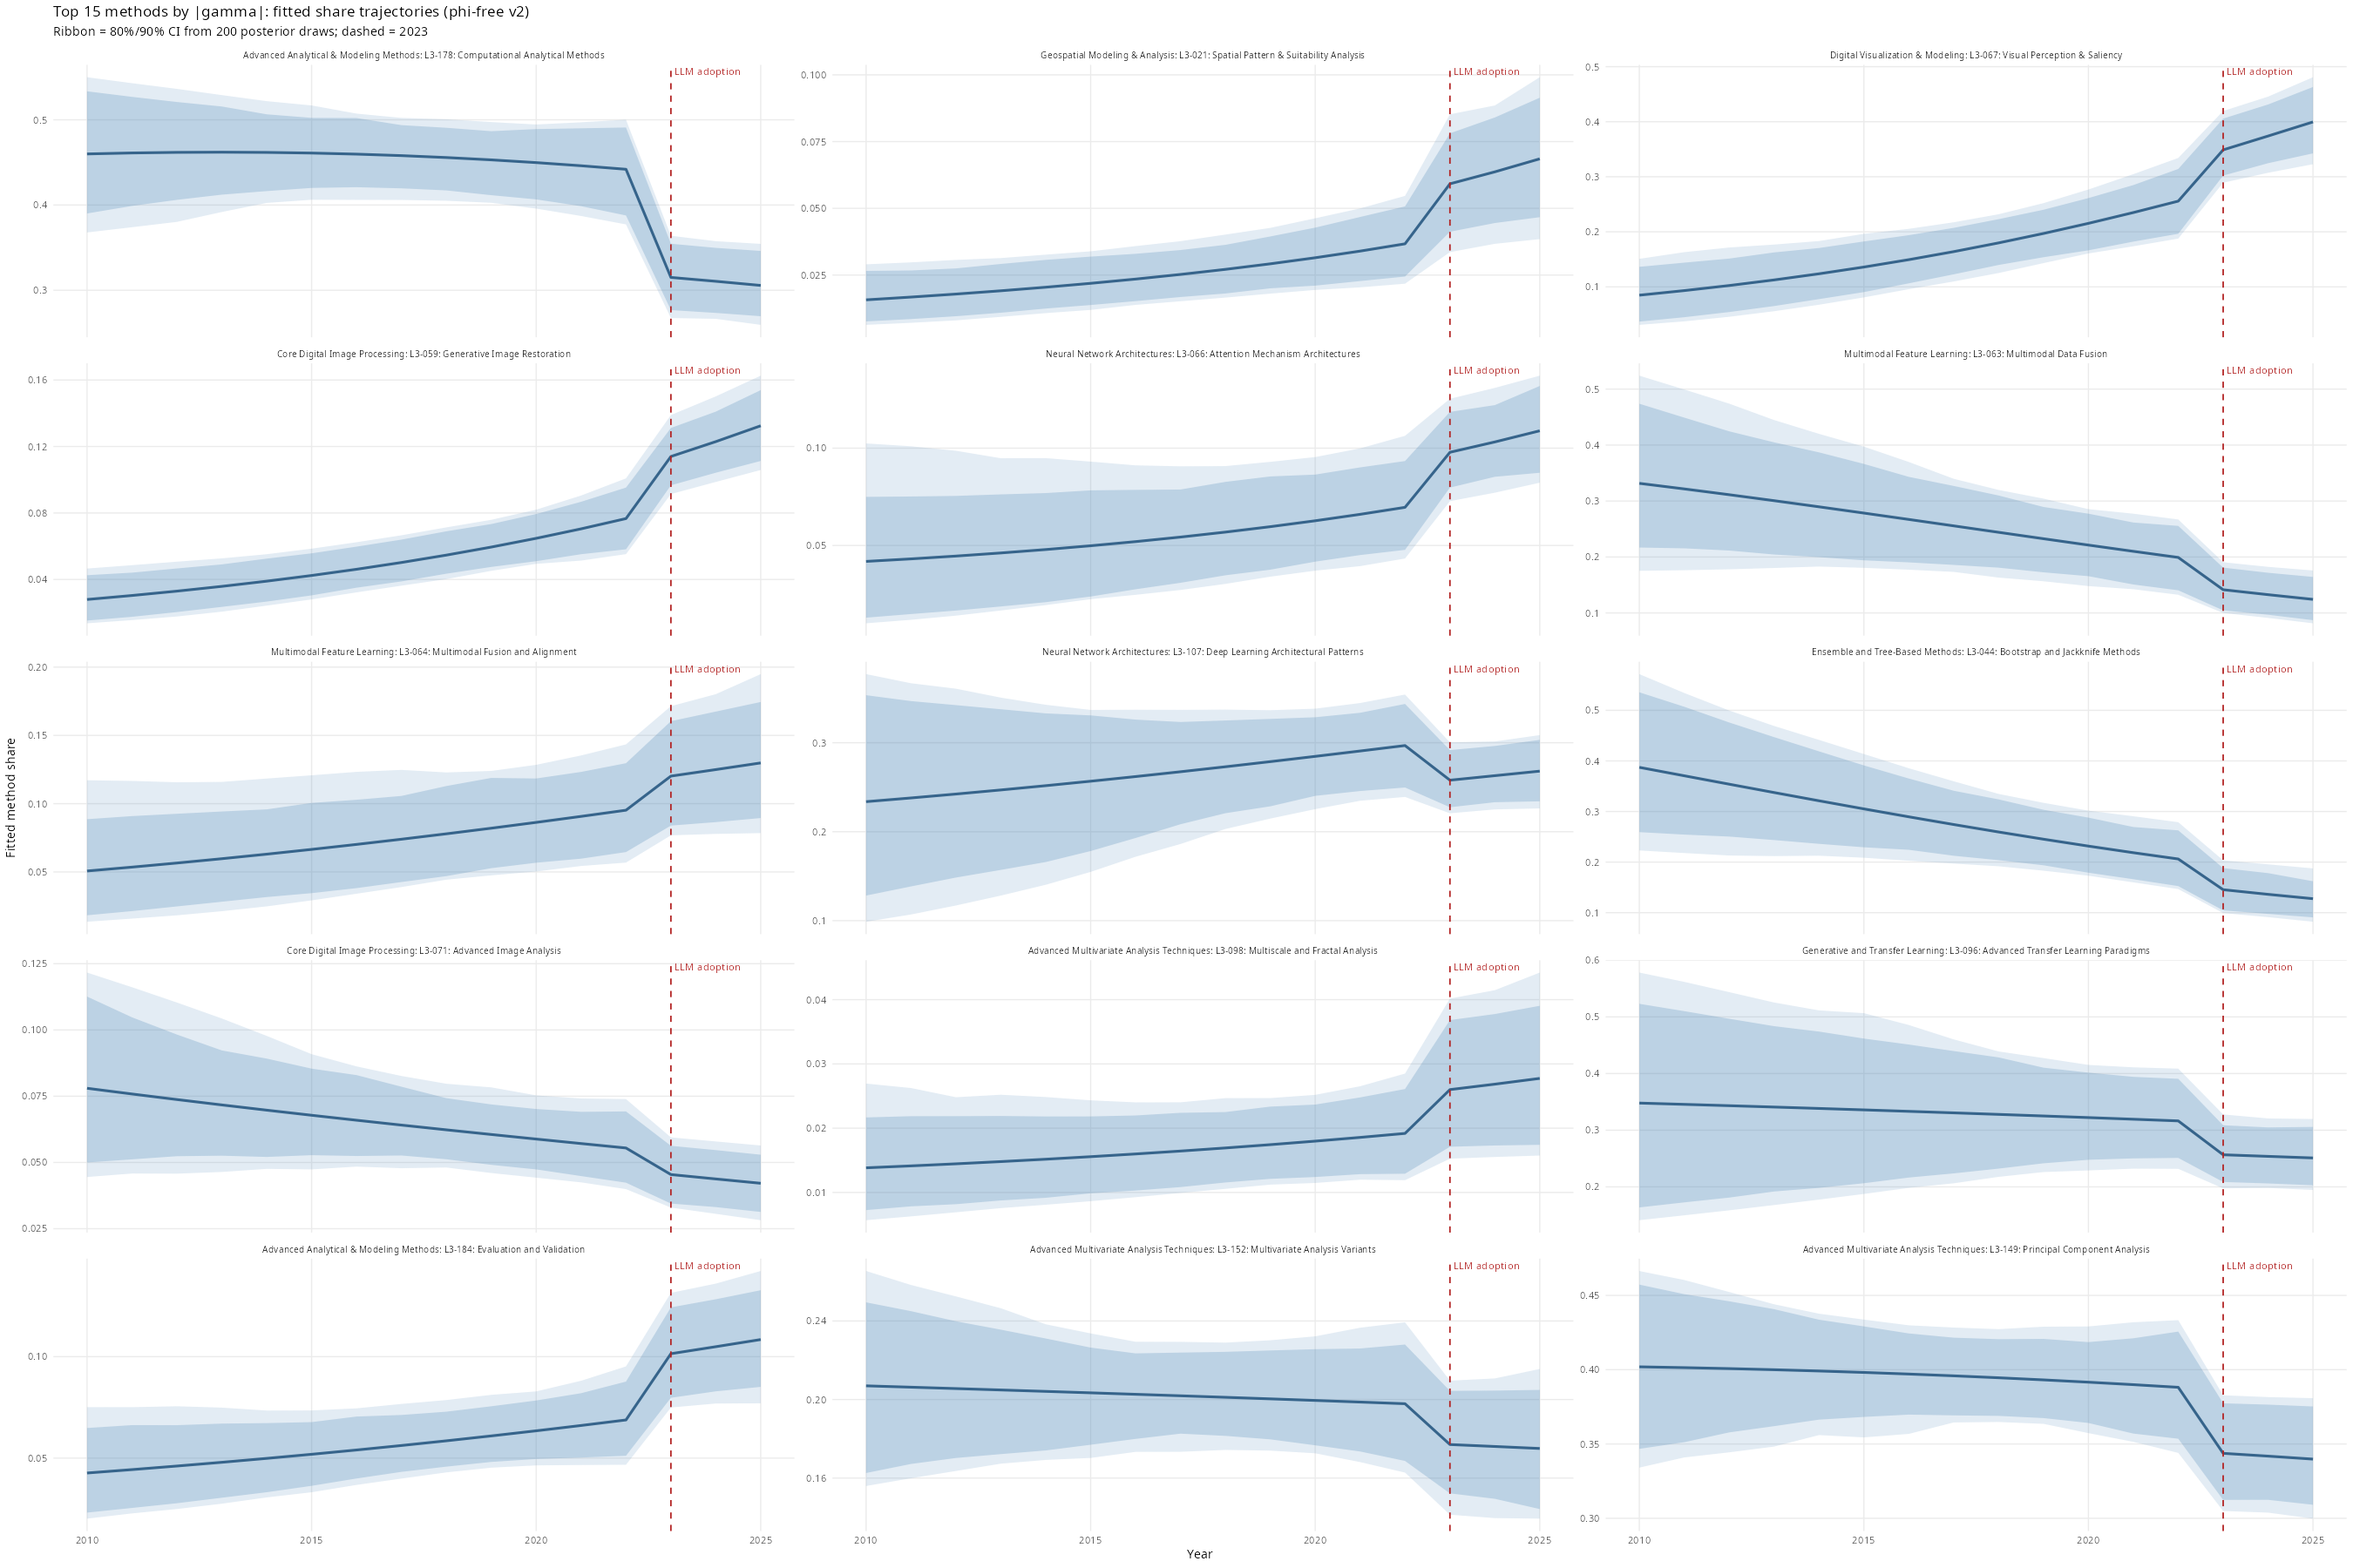
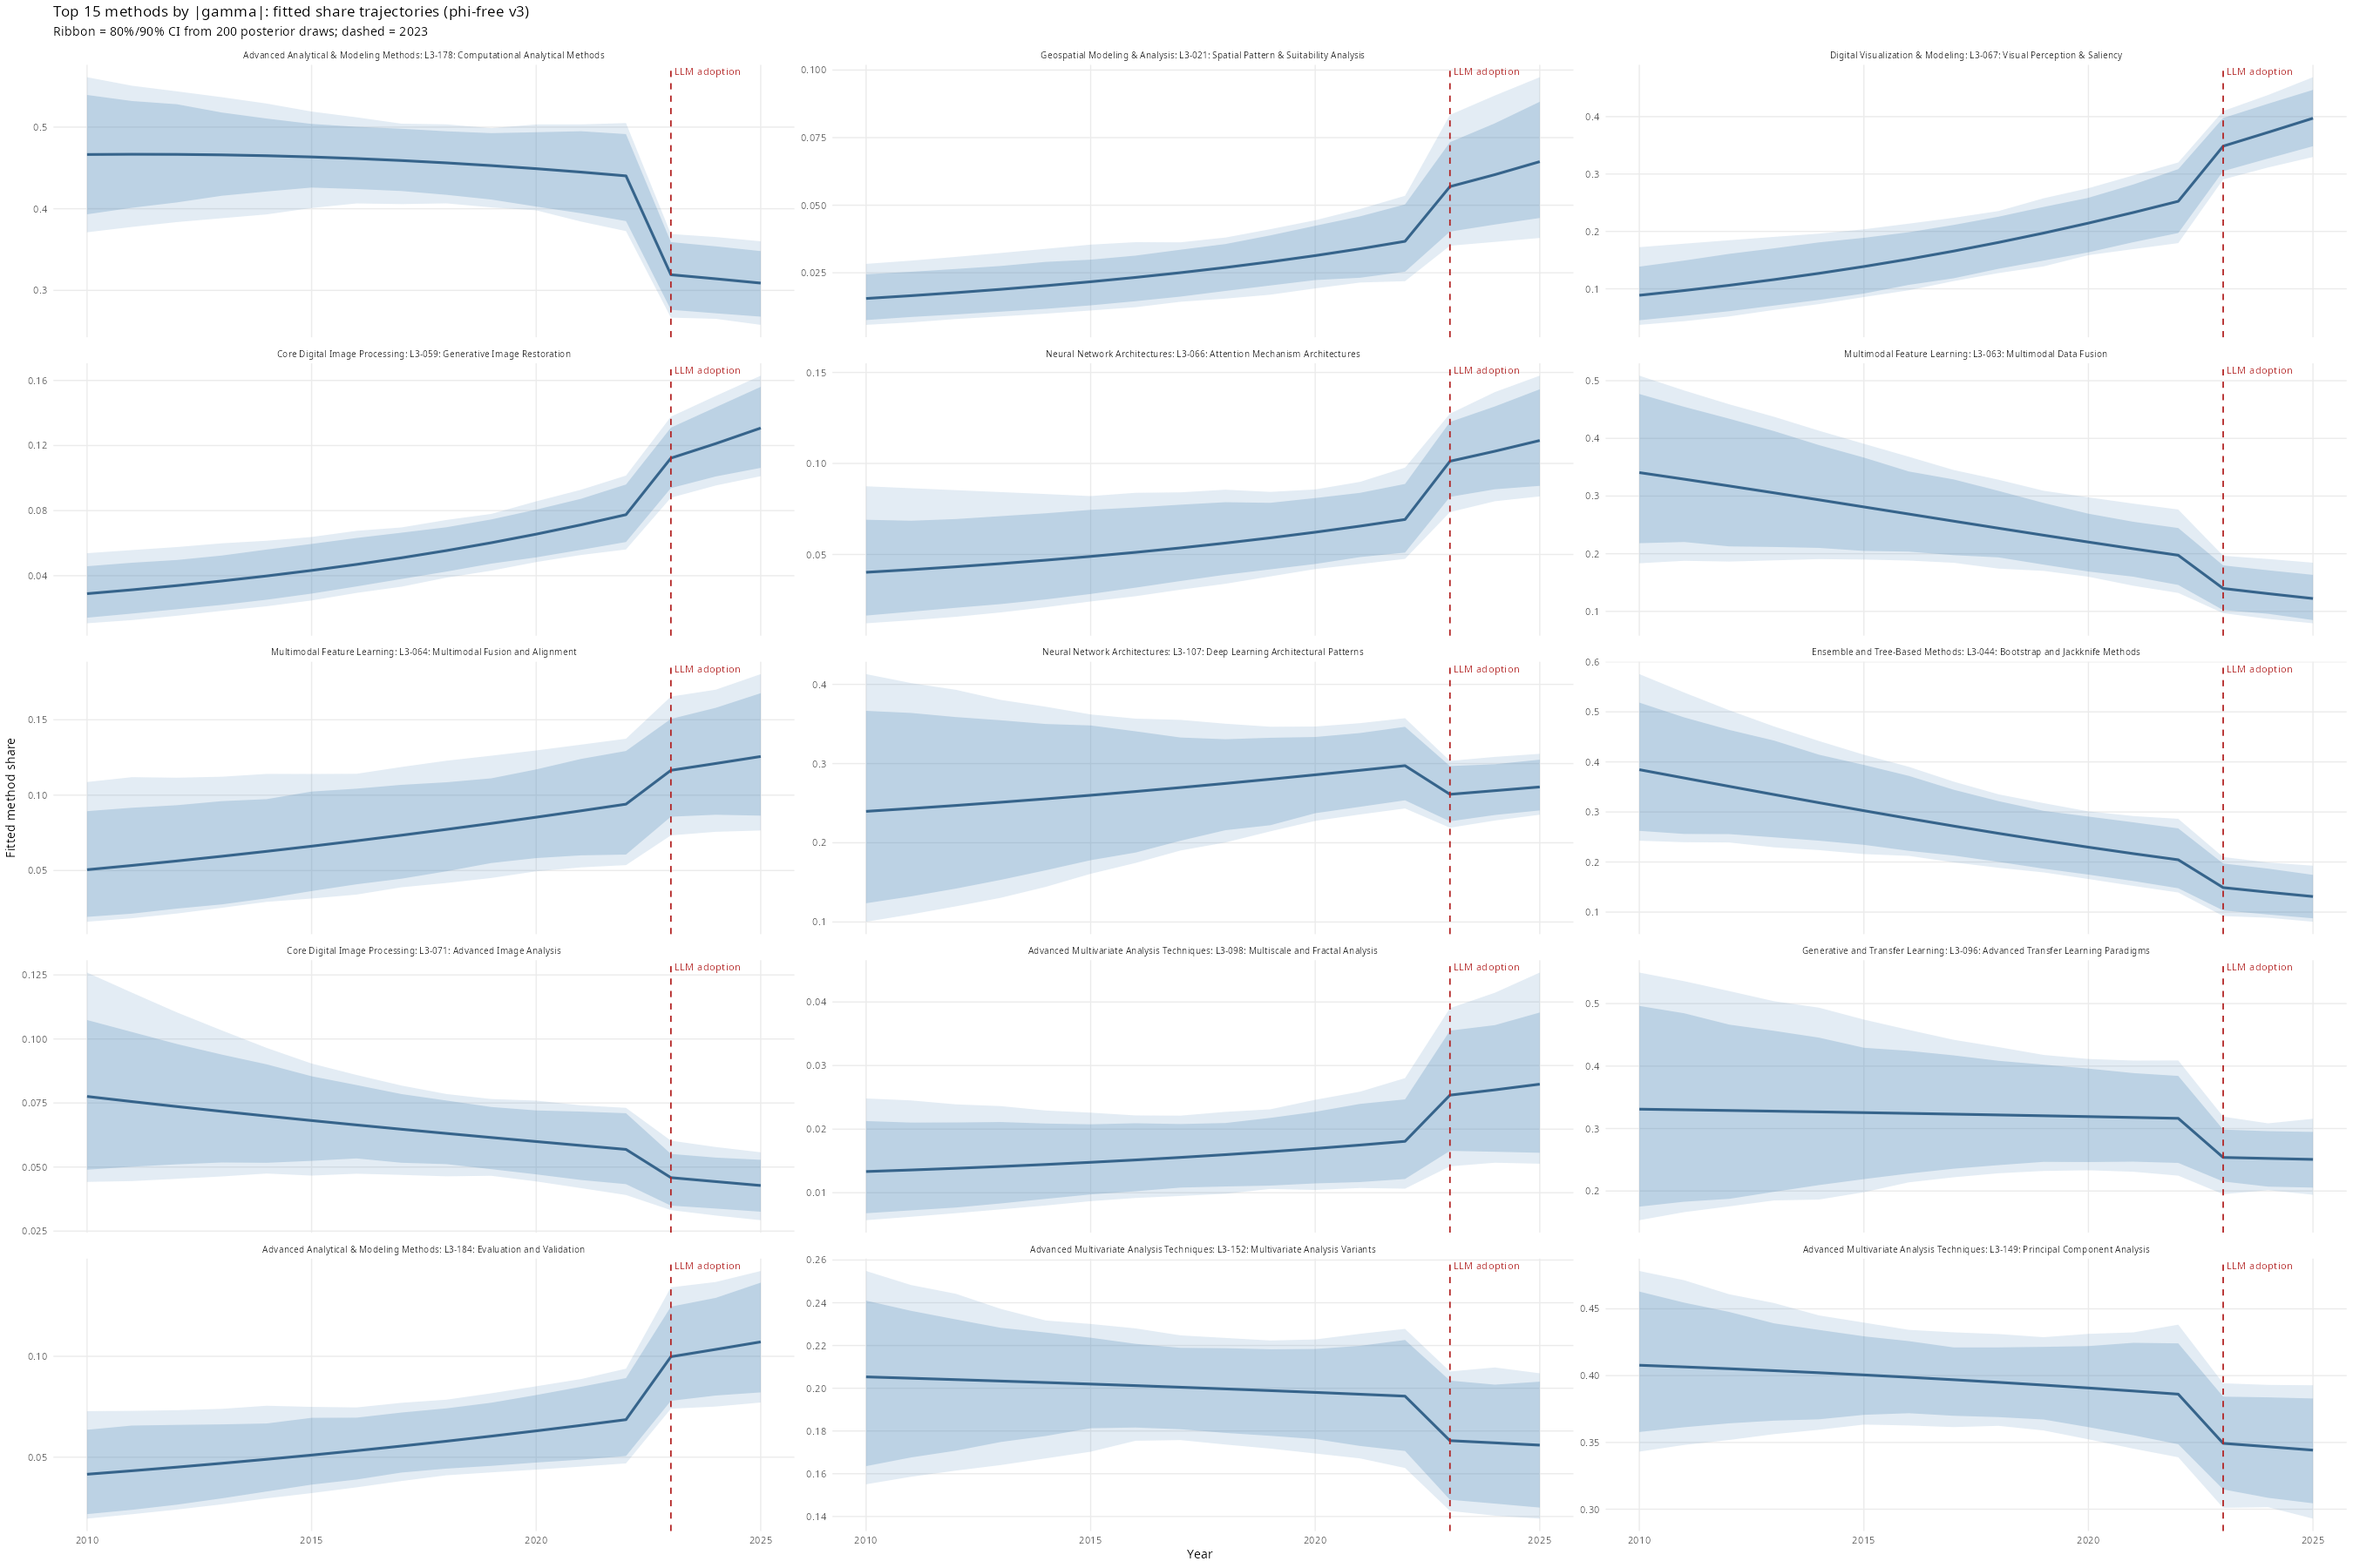
auto: phi-free v3 results and plots

diff --git a/docs/phi_results.md b/docs/phi_results.md
@@ -48,31 +48,16 @@ _v3 key change: phi sampled as log_phi (unbounded) for better HMC geometry; warm
 
 | Parameter | phi free v3 |
 |---|---|
-| phi mean | — |
-| phi 90% CI | — |
-| sigma_gamma mean | — |
-| sigma_gamma 90% CI | — |
-| sigma_beta mean | — |
-| Rhat sigma_gamma | — |
-| ESS sigma_gamma | — |
-| Runtime | — |
-
-### Phi-free results (v2, unconverged — for reference only)
-
-| Parameter | phi free v2 |
-|---|---|
-| phi mean | 599.6 |
-| phi 90% CI | [254.1, 1505.7] |
-| sigma_gamma mean | 0.25 |
-| sigma_gamma 90% CI | [0.0426, 0.3825] |
-| sigma_beta mean | 0.2129 |
-| Rhat sigma_gamma | 1.0818 |
-| ESS sigma_gamma | 67 |
-| Runtime | 157.5 min |
+| phi mean | 604.6 |
+| phi 90% CI | [254.1, 1503.5] |
+| sigma_gamma mean | 0.2502 |
+| sigma_gamma 90% CI | [0.095, 0.3865] |
+| sigma_beta mean | 0.2148 |
+| Rhat sigma_gamma | 1.0019 |
+| ESS sigma_gamma | 1824 |
+NA
 
 ### Plots (phi-free v3)
-
-> Plots will be updated when v3 fit completes.
 
 #### 1. Parameter posteriors
 Left: sigma_beta (baseline linear trend), centre: sigma_gamma (post-LLM shift scale) —
@@ -90,15 +75,24 @@ Dashed red line = 2023 LLM adoption boundary.
 ![Diversity by L2 group](../data/output/phi_free/kf_plot_diversity_by_group.png)
 
 #### 3. Differential post-2023 slopes (gamma_method)
-Methods where the 90% posterior CI for gamma excludes zero — i.e., credible post-LLM
-slope change. Red = gaining share, blue = losing share. With ESS=67, almost no methods
-pass this threshold; the near-empty plot is a convergence symptom, not a scientific finding.
+Methods where the 90% posterior CI for gamma excludes zero — credible evidence of a
+post-LLM slope change. Red = gaining share post-2023, blue = losing share.
 
 ![Gamma dotplot](../data/output/phi_free/kf_plot_gamma_dotplot.png)
 
 #### 4. Share trajectories: top 15 methods by |gamma|
-Model-fitted share trajectories for the 15 methods with the largest absolute posterior mean
-gamma. Shows whether the post-2023 trend change is visible in the fitted shares.
+
+**How this differs from plot 2**: Plot 2 shows _aggregate diversity_ — the effective number
+of L3 techniques in active use within each L2 group (inverse Simpson index), one panel per
+group. That answers "is this sub-discipline becoming more or less methodologically diverse?"
+
+This plot shows _individual method shares_ for the 15 specific L3 techniques with the largest
+|gamma| (the biggest estimated post-2023 slope change). Each panel is one method; the y-axis
+is that method's estimated proportion of papers within its L2 group. The ribbon is the 80%/90%
+posterior CI from 200 posterior draws. The trajectory change at the 2023 boundary (dashed line)
+is the signal sigma_gamma is measuring at the global level.
+
+In short: plot 2 = the forest (group-level diversity); plot 4 = the individual trees that moved most.
 
 ![Top gamma trajectories](../data/output/phi_free/kf_plot_top_gamma_trajectories.png)
 
@@ -114,5 +108,4 @@ Useful sanity check: does the raw signal match what the model recovers?
 |---|---|---|---|---|---|
 | Fixed phi = 10 | 10 (fixed) | 0.0563 | [0.0018, 0.1671] | YES | Primary model; phi is a Dirac-delta prior |
 | Fixed phi = 50 | 50 (fixed) | ~0.095 | — | YES | Sensitivity check; not Bayesian |
-| Phi free (v2) | 599.6 (estimated) | 0.25 | [0.0426, 0.3825] | PARTIAL (ESS=67) | phi ~ lognormal, direct parameterisation |
-| Phi free (v3) | — | — | — | PENDING | log_phi parameterisation; genuinely Bayesian |
+| Phi free (v3) | 604.6 (estimated) | 0.2502 | [0.095, 0.3865] | YES (Rhat OK, ESS OK) | log_phi parameterisation; genuinely Bayesian |
